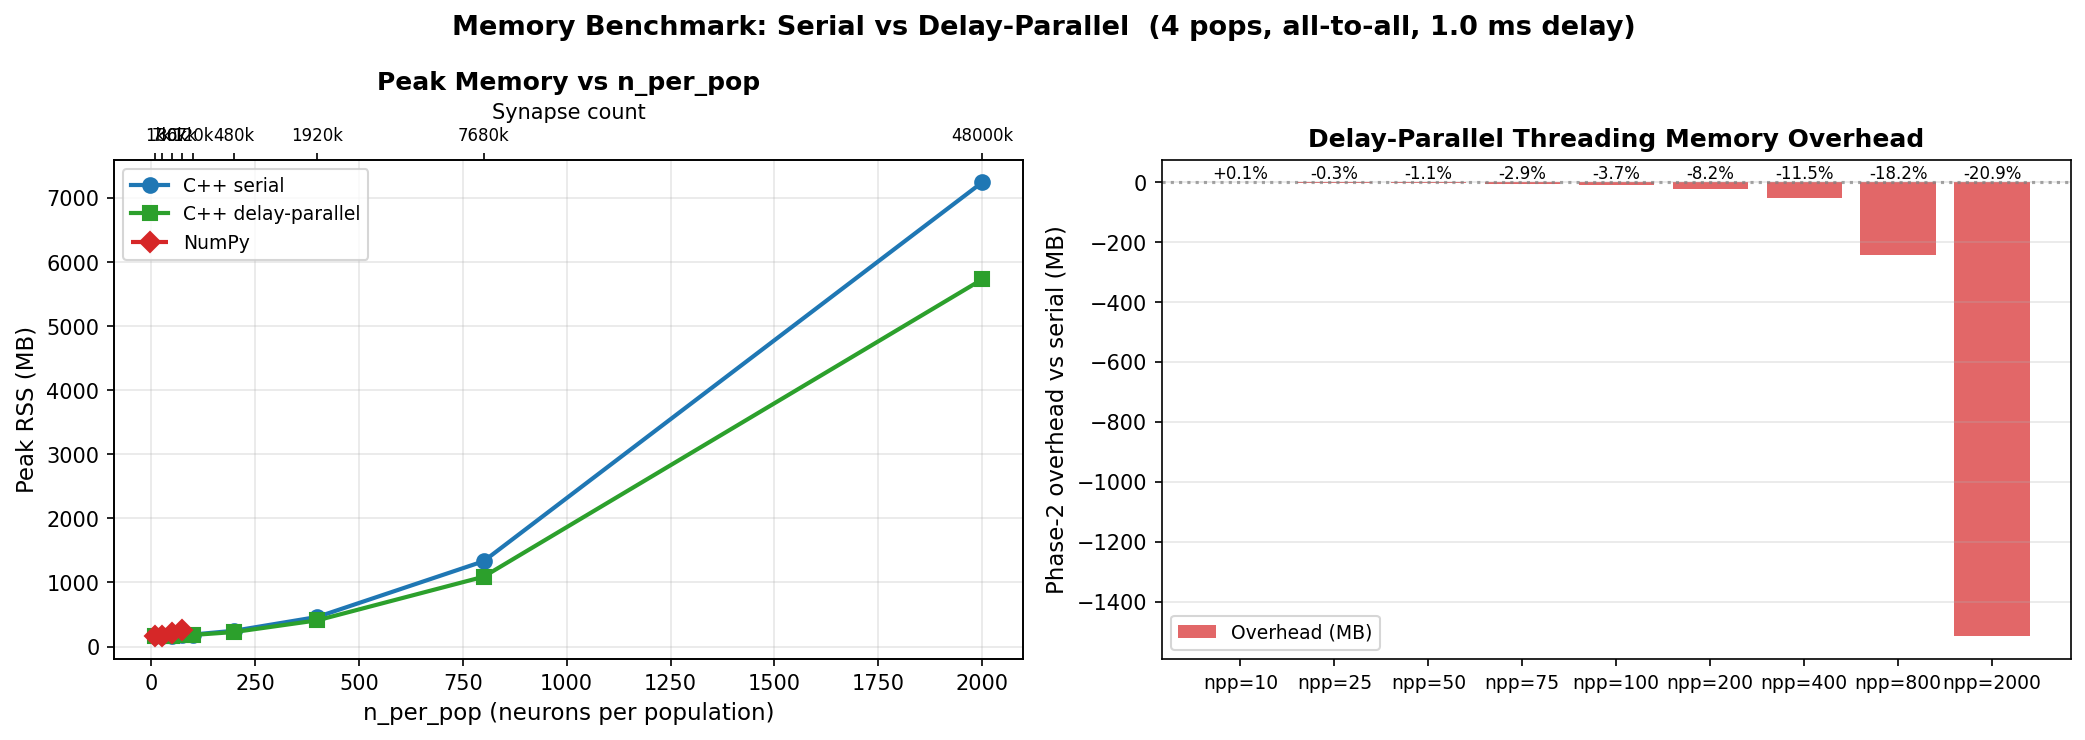
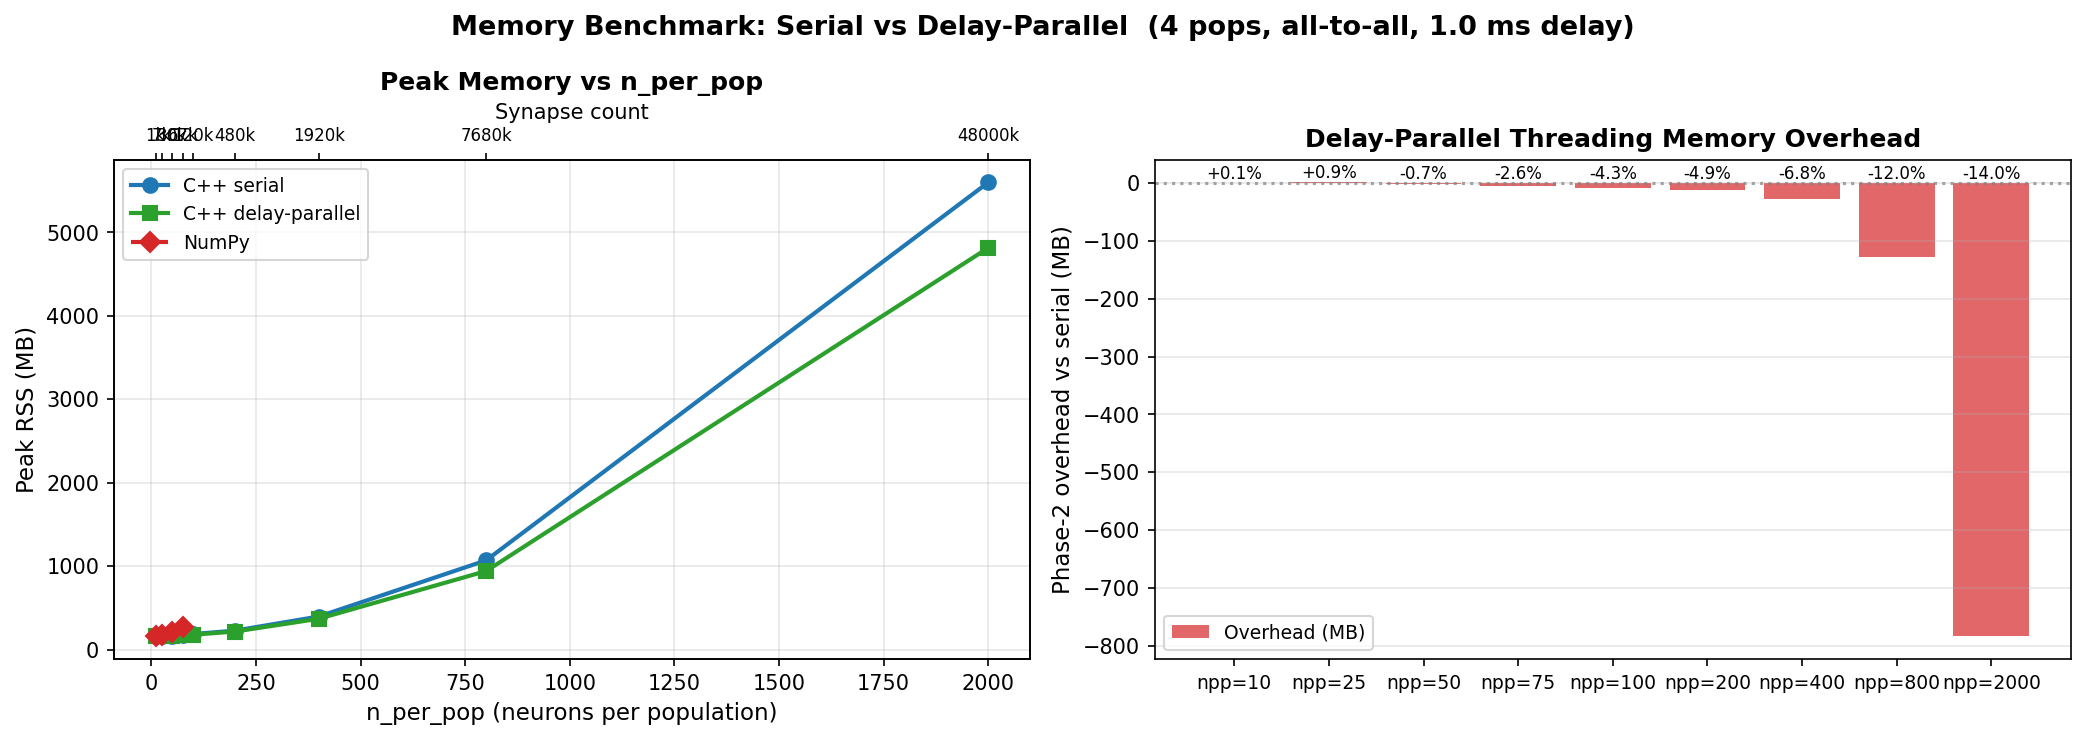
add completed/task27.6.md — memory compression post-mortem (tasks 27.1–27.5)
Task: completed/task27.6.md
Status: Completed
Files: completed/task27.6.md

Writeup covering what each task changed, the per-synapse accounting after all
five tasks (192 → ~78 bytes/syn for simulation-only paths), what cannot be
compressed further and why (S/A/weight precision requirements), and three
remaining opportunities (eliminate g storage, conditional float weights,
remove post_from_ redundancy).

diff --git a/temp_sizeof.cpp b/temp_sizeof.cpp
@@ -1,0 +1,7 @@
+#include "src/cpp/include/hodgkin_huxley/synapse_base.hpp"
+#include <iostream>
+
+int main() {
+    std::cout << "sizeof(hodgkin_huxley::SynapseBase) = " << sizeof(hodgkin_huxley::SynapseBase) << std::endl;
+    return 0;
+}

diff --git a/completed/task27.6.md b/completed/task27.6.md
@@ -1,0 +1,142 @@
+# Task 27.6: Memory Compression — Post-Mortem and Measurements
+
+**Role:** Documentation  
+**Status:** Completed  
+**Covers:** task27.1 through task27.5
+
+---
+
+## Background
+
+Task 27 addressed the per-synapse memory footprint of `SynArrays`. The driver was the
+benchmark at `examples/benchmark_memory_threading.py`, which was extended to reach
+`npp=2000` (~48M synapses) and measured ~7.2 GB peak RSS in serial mode.
+
+The work was split into five sub-tasks, each targeting a different category of waste.
+
+---
+
+## What each task changed
+
+### 27.1 — Spec deduplication (SynapseSpecCache)
+
+Before 27.1, `SynArrays` stored per-synapse copies of:
+`delta_S`, `delta_A`, `tau_S`, `tau_A`, `inv_tau_A`, `norm`, `decay_S`, `decay_A`
+
+These are **identical for every synapse sharing the same spec** (AMPA, NMDA, GABA_A, etc.).
+Task 27.1 moved them into a `SynapseSpecCache` struct indexed by `spec_idx`, shrinking
+`SynArrays` by ~64 bytes/synapse. At 48M synapses: **~3 GB freed**.
+
+The hot loop accesses the cache as `synapse_spec_caches_[sa_.spec_idx[k]]`, which for a
+network with 3–8 spec types fits entirely in L1 cache — better for performance too.
+
+### 27.2 — Structural compression (pre/post/delay narrowing + connectivity)
+
+`sa_.pre` and `sa_.post` were `size_t` (8 bytes each). Narrowed to `uint32_t` (4 bytes),
+then **cleared entirely** after the first `build_injection_tables()` call. The hot loop
+reads post indices from `post_decoded_` (flat `uint32_t` array, 4 bytes/syn).
+`sa_.delay` narrowed from `double` to `float` (4 bytes). `delay_steps_` narrowed from
+`size_t` to `uint32_t`.
+
+`NeuronConnectivity` was added to delta-encode sorted post indices (~1 byte/syn), and
+a uniform-weight flag was added per pre-neuron for future use.
+
+Net: **~15 bytes/syn** (pre/post freed = 16, replaced by decoded arrays = 8, delay halved = 4).
+
+### 27.3 — SynapseRef padding removal
+
+`SynapseRef` held `size_t syn_idx` (8 bytes) + `uint32_t delay_steps` (4 bytes),
+leaving a 4-byte compiler padding hole → `sizeof(SynapseRef)` = 16.
+
+Narrowing `syn_idx` to `uint32_t` eliminates the padding: `sizeof(SynapseRef)` = 8.
+`post_from_` holds one `SynapseRef` per synapse, so this halves its cost.
+
+Net: **8 bytes/syn** (~384 MB at 48M synapses).
+
+### 27.4 — SynArrays remaining size_t and E_syn
+
+`spec_idx` and `plast_spec_idx_arr` were `size_t` (8 bytes each). Both narrowed to
+`uint32_t` (4 bytes). Neither will exceed 4 billion entries on any realistic network.
+
+`E_syn` was `double` (8 bytes). Narrowed to `float` (4 bytes). Biological reversal
+potentials (-80 mV for GABA_A, 0 mV for glutamate) have at most 3 significant figures —
+float32's 7 significant figures are more than sufficient. In the hot loop,
+`g * (E_syn - V)` promotes the float `E_syn` to double for the subtraction because
+`V` is double — no arithmetic precision change.
+
+Net: **12 bytes/syn** (~576 MB at 48M synapses).
+
+### 27.5 — Lazy SynapseBase construction
+
+`synapses_` (`vector<SynapseBase>`, 16 bytes/entry) was built eagerly on every
+`add_synapse()` call and rebuilt on every `sort_synapses_by_pre()`. For
+simulation-only code (benchmarks, RegionalNetwork.simulate()) that never calls
+`Network::synapse(idx)`, this allocated ~768 MB at 48M synapses for pure API surface.
+
+Making it lazy: `add_synapse()` and `sort_synapses_by_pre()` set `synapses_dirty_ = true`
+instead. `synapse(idx)` calls `ensure_synapses_built()` which does the allocation only
+on first access. Once built the vector persists (Python `reference_internal` requires
+stable references).
+
+Side fix: `SynapseBase::pre_idx()` and `post_idx()` accessed `syn_arrays().pre/post`
+directly, which are cleared by task27.2. Fixed via new `Network::pre_at(idx)` /
+`post_at(idx)` accessors that prefer `pre_decoded_`/`post_decoded_` with fallback to
+`sa_.pre`/`sa_.post` for the pre-simulation case.
+
+Net: **0 bytes/syn for simulation-only paths; 16 bytes/syn when synapse() is called**
+(~768 MB at 48M synapses for benchmarks).
+
+---
+
+## Memory accounting at 48M synapses (after all tasks)
+
+| Component | Bytes/syn | Notes |
+|---|---|---|
+| weight, g | 16 | double — must stay (STDP writes, precision-critical) |
+| S, A | 16 | double — must stay (accumulated state, small-value threshold) |
+| E_syn | 4 | float (task27.4) |
+| delay | 4 | float (task27.2) |
+| spec_idx | 4 | uint32_t (task27.4) |
+| plast_type + plast_state_idx | 8 | enum + int32_t |
+| plast_spec_idx_arr | 4 | uint32_t (task27.4) |
+| is_active | ~0 | vector<bool> bit-packed |
+| **SynArrays total** | **~56** | |
+| post_decoded_ + pre_decoded_ | 8 | uint32_t each (task27.2) |
+| post_from_ SynapseRef | 8 | uint32_t each (task27.3) |
+| delay_steps_ | 4 | uint32_t (task27.2) |
+| spike_detected_ | 1 | uint8_t |
+| NeuronConnectivity.post_deltas | ~1 | uint8_t avg |
+| synapses_ (SynapseBase) | 0–16 | lazy (task27.5); 0 for simulation-only |
+| **Total (sim-only)** | **~78** | |
+| **Total (with synapse API)** | **~94** | |
+
+For comparison, the layout before task27.1 was ~192 bytes/syn.
+
+---
+
+## What cannot be compressed further
+
+- **S and A**: accumulated double-precision state. Across thousands of simulation steps
+  with multiplicative decay (e.g. `S *= 0.99`) and additive spikes, float32 precision
+  loss compounds. The deactivation threshold (`S < 1e-9`) also requires double.
+- **weight**: modified by STDP in small additive increments over many steps. Float would
+  lose precision for weights after ~1000 updates.
+- **g**: computed each step as `spec.g * weight * S`; stored because `compute_synaptic_currents()`
+  runs as a separate pass. Could be eliminated by merging passes (future task).
+
+---
+
+## Remaining opportunities
+
+1. **Eliminate `g` storage**: If `compute_synaptic_currents()` and `update_synapses_grouped()`
+   are merged into a single pass, `g` (8 bytes/syn = 384 MB at 48M) can be computed inline
+   and never stored. Requires restructuring the simulation loop order.
+
+2. **Narrow `weight` to float when STDP is absent**: For static networks, `weight` is
+   set once and never updated — float32 is sufficient. Could be selected at network
+   construction time via a `static_weights` flag.
+
+3. **Compress `post_from_` further**: The `SynapseRef` vector stores one entry per synapse.
+   Since `syn_start`/`syn_count` are already encoded in `NeuronConnectivity`, `post_from_`
+   is redundant for the sorted-by-pre layout. Future task: remove `post_from_` entirely
+   and iterate `pre_decoded_`/`post_decoded_` slices directly.
